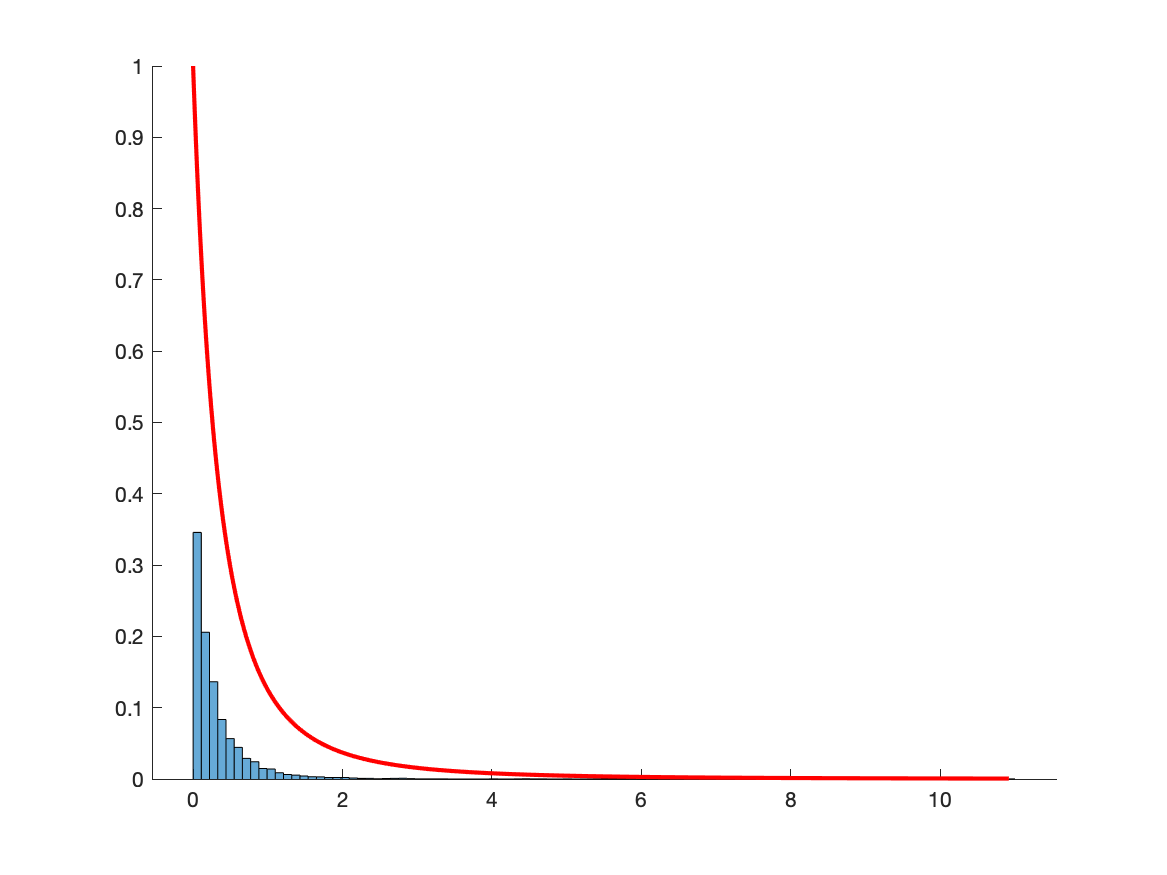
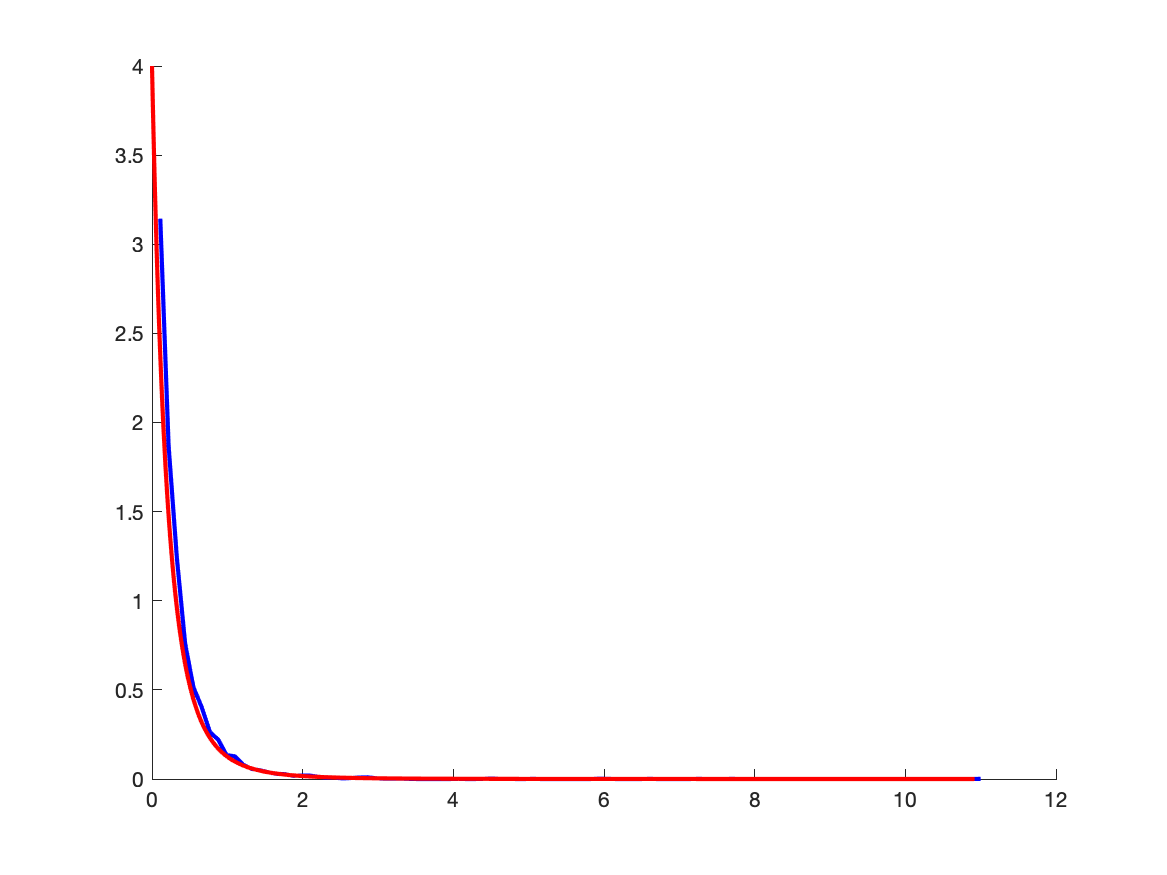
Update

diff --git a/setup.m b/setup.m
@@ -4,26 +4,45 @@
 % ######################################################################################################################
 % cd Documents/GitHub/StochasticSim
 % pwd
-% ######################################################################################################################
 addpath("/Users/fengguangjie/Documents/GitHub/StochasticSim")
-% %
-% mCap = 10000;
-% a    = 24298;
-% c    = 99991;
-% x0   = 199017;
+% ######################################################################################################################
+% 1,  Random Number Generation and Analysis
+mCap = 10000;
+a    = 24298;
+c    = 99991;
+x0   = 199017;
 % mCap = 16;
 % a    = 5;
 % c    = 1;
 % x0   = 3;
+[vecRanNum, vecCumuProb] = getRngLcg(mCap, a, c, x0);
 % vecRanNum = testRngLcg(mCap, a, c, x0, 'figHistRNG.png');
-% vecRanNumNorm  = vecRanNum / mCap;
-% vecRanNumNorm_2 = rand(10000, 1);
-% vecRanNumNorm_3 = rand(10000, 1);
-% [vecX, vecProbClass] = distGeoPDF(vecRanNumNorm_2, 0.25, 100, 'figHistGeoPDF.png');
-% vecX_dice = distDicePDF(vecRanNumNorm_2, 6, 'figHistDice.png');
-% [ vecX, vecProbClass ] = distCrudePDF(vecRanNumNorm_2, [0 0.1 0.3 0.6 1], 'figHistCrudePDF.png');  % [0:0.1:1]
+% ######################################################################################################################
+% 2,  Simulate Distributions
+rng(2); vecRanNumNorm_2 = rand(10000, 1);
+rng(3); vecRanNumNorm_3 = rand(10000, 1);
+[vecX, vecProbClass] = distGeoPDF(vecRanNumNorm_2, 0.25, 100, 'figHistGeoPDF.png');
+vecX_dice = distDicePDF(vecRanNumNorm_2, 6, 'figHistDice.png');
+[vecX, vecProbClass] = distCrudePDF(vecRanNumNorm_2, [0 0.1 0.3 0.6 1], 'figHistCrudePDF.png');  % [0:0.1:1]
 [vecX, vecProbClass] = distExpPdf(vecRanNumNorm_2, 0.5, 100, 'figHistExp.png');
-% vecTriU2 = cos(2 * pi * vecRanNumNorm_3);
-% [vecX, vecProbClass] = distNormPdf(vecRanNumNorm_2, vecTriU2, 100, 'figHistNorm.png');
-% [ vecX, vecProbClass ] = distParetoPdf(vecRanNumNorm_2, 1, 2, 100, 'figHistPareto1.png');
-% [ vecX, vecProbClass ] = distParetoPdf(vecRanNumNorm_2, 1, 4, 100, 'figHistPareto2.png');
+vecTriU2 = cos(2 * pi * vecRanNumNorm_3);
+[vecSimNorm, vecProbClass] = distNormPdf(vecRanNumNorm_2, vecTriU2, 100, 'figHistNorm.png');
+[vecX, vecProbClass] = distParetoPdf(vecRanNumNorm_2, 1, 2.3, 100, 'figHistPareto1.png');
+[vecX, vecProbClass] = distParetoPdf(vecRanNumNorm_2, 1, 4, 100, 'figHistPareto2.png');
+% ######################################################################################################################
+% 3,  For the normal distribution, generate 95% confidence intervals for the mean and variance based on 10 experiments.
+vecExpectNorm = zeros(10, 1);
+vecVarNorm = zeros(10, 1);
+for i = 1:10
+    rng(i); vecRanNumNorm_4 = rand(10000, 1);
+    [vecSimNorm, vecProbClass] = distNormPdf(vecRanNumNorm_4, vecTriU2, 100, 'figHistNorm.png');
+    vecExpectNorm(i) = mean(vecSimNorm);
+    vecVarNorm(i) = var(vecSimNorm);
+end
+clear vecRanNumNorm_4, vecSimNorm, vecProbClass
+intervalConfExpect = zeros(2, 1);
+intervalConfVar = zeros(2, 1);
+intervalConfExpect(1) = mean(vecExpectNorm) - tpdf(sqrt(var(vecExpectNorm)), 10 - 1);
+intervalConfExpect(2) = mean(vecExpectNorm) + tpdf(sqrt(var(vecExpectNorm)), 10 - 1);
+intervalConfVar(1) = mean(vecVarNorm) - tpdf(sqrt(var(vecVarNorm)), 10 - 1);
+intervalConfVar(2) = mean(vecVarNorm) + tpdf(sqrt(var(vecVarNorm)), 10 - 1);

diff --git a/distParetoPdf.m b/distParetoPdf.m
@@ -5,11 +5,14 @@ function [ vecX, vecProbClass ] = distParetoPdf( vecU, beta, k, numClass, strFig
         vecX(i) = beta * (vecU(i)^(- 1 / k) - 1);
     end
     vecXstd = [min(vecX):0.01:max(vecX)];
-    vecYstd = vecXstd;
-    for i = 1:length(vecXstd)
-        % vecYstd(i) = k * beta^k / vecXstd(i)^(k + 1);
-        vecYstd(i) = 1 / beta * (1 + vecXstd(i) / beta)^(-k + 1);
-    end
-    % vecYstd = gppdf(vecXstd, 1 / k, beta / k, 0);
+    vecYstd = gppdf(vecXstd, 1 / k, beta / k, 0);
+    vecXdiff = vecX + beta;
+    expect = mean(vecXdiff);
+    expectCal = beta * k / (k - 1);
+    var = mean(vecXdiff.^2) + expect^2;
+    varCal = beta^2 * k / (k - 1)^2 / (k - 2);
+    fprintf("When beta = %f, k = %f.\n", beta, k)
+    fprintf("Expect = %f, theoretically = %f.\n", expect, expectCal)
+    fprintf("Variance = %f, theoretically = %f.\n", var, varCal)
     [vecProbClass] = plotHist(vecX, vecXstd, vecYstd, numClass, strFigName);
 end

diff --git a/plotHist.m b/plotHist.m
@@ -2,8 +2,12 @@ function [ vecProbClass ] = plotHist( vecResult, vecXstd, vecYstd, numClass, str
     % Plot the histogram of RNG result and return the vector of values
     figHist = figure("Visible", "off");
     hold on
-    figHist = histogram(vecResult, 'NumBins', numClass, 'Normalization', 'probability');
+    figHist = histogram(vecResult, 'NumBins', numClass, 'Normalization', 'probability', "Visible", "off");
     vecProbClass = figHist.Values;
+    vecProbClassNorm = vecProbClass / figHist.BinWidth;
+    vecX = figHist.BinEdges(1:figHist.NumBins);
+    vecX = vecX + figHist.BinWidth / 1;
+    figHist = plot(vecX, vecProbClassNorm, 'b', 'LineWidth', 2);
     figHist = plot(vecXstd, vecYstd, 'r', 'LineWidth', 2);
     hold off
     saveas(figHist, [pwd '/images/' strFigName]);

diff --git a/distNormPdf.m b/distNormPdf.m
@@ -1,4 +1,4 @@
-function [ vecX, vecProbClass ] = distNormPdf( vecU1, vecTriU2, numClass, strFigName )
+function [vecX, vecProbClass] = distNormPdf( vecU1, vecTriU2, numClass, strFigName )
     numU = length(vecU1);
     vecX = zeros(numU, 1);
     for i = 1:numU
